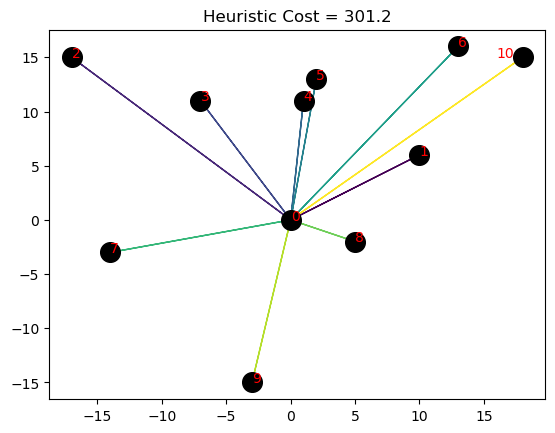
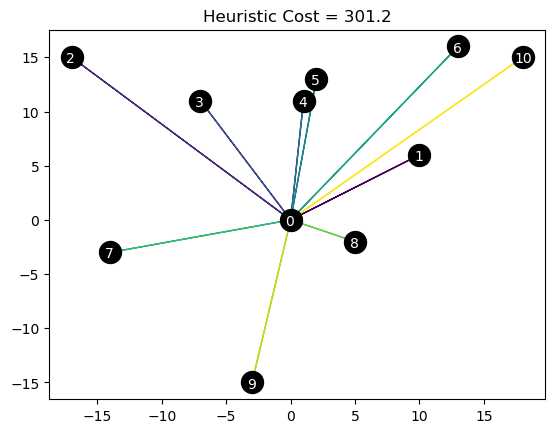
plotting fixed

diff --git a/src/solver/column_generation/method.py b/src/solver/column_generation/method.py
@@ -1,10 +1,11 @@
 from problem.cvrp import CVRP, Route
 from problem.solution import Solution
+from utils.logger import Log
 
 from . import initial_solution
 from .master_problem import MasterProblem
 from .pricing_problem import PricingProblem
-from utils.logger import Log
+
 
 class SolverColumnGeneration:
     """This class has the responsibility of solving the CVRP
@@ -27,7 +28,7 @@ class SolverColumnGeneration:
         self.instance: CVRP = instance
         self.initial_solution: Solution = None
         self.log = Log()
-        
+
         # heuristic solution
         # self.initial_solution = closest_client(instance)
         self.initial_solution = initial_solution.one_route_per_client(instance)
@@ -49,20 +50,24 @@ class SolverColumnGeneration:
         )
 
         last_min_reduced_cost_entered = None
-        
+
         for i in range(max_iterations):
-            print(f"\nMASTER ITERATION: {i+1} ---------------------------------------------\n")
-            
+            print(
+                f"\nMASTER ITERATION: {i+1} ---------------------------------------------\n"
+            )
+
             # Get the current state to show performance evolution
             self.master.build_model(is_linear=False)
             self.master.solve()
             obj_bound, obj_value = self.master.get_Obj_Values()
-            self.log.add(iteration=i,
-                         of_linear_lower_bound=obj_bound,
-                         of_integer_optimal_value=obj_value,
-                         number_routes=len(self.master.routes),
-                         min_reduced_cost=last_min_reduced_cost_entered)
-            
+            self.log.add(
+                iteration=i,
+                of_linear_lower_bound=obj_bound,
+                of_integer_optimal_value=obj_value,
+                number_routes=len(self.master.routes),
+                min_reduced_cost=last_min_reduced_cost_entered,
+            )
+
             # Get the duals
             self.master.build_model(is_linear=True)
             self.master.solve()
@@ -74,7 +79,7 @@ class SolverColumnGeneration:
             cost_path_solutions = self.pricing.solve()
             last_min_reduced_cost_entered = None
             if len(cost_path_solutions) > 0:
-                last_min_reduced_cost_entered = min([c for c,p in cost_path_solutions])
+                last_min_reduced_cost_entered = min([c for c, p in cost_path_solutions])
                 print("\nResults of Pricing Problem:")
                 for i, (reduced_cost, path) in enumerate(cost_path_solutions):
                     # add route to the master problem
@@ -83,7 +88,9 @@ class SolverColumnGeneration:
                     self.instance.is_valid_route(route)
                     cost = self.instance.get_route_cost(route)
                     self.master.add_route(route, cost)
-                    print(f"\t {i+1}: red-cost: {reduced_cost} path: {path}, cost: {cost}")
+                    print(
+                        f"\t {i+1}: red-cost: {reduced_cost} path: {path}, cost: {cost}"
+                    )
             else:
                 print(f"\nNo reduced-cost routes found! Ending Column Generation...")
                 break
@@ -94,16 +101,18 @@ class SolverColumnGeneration:
         self.master.build_model(is_linear=False)
         self.master.solve()
         obj_bound, obj_value = self.master.get_Obj_Values()
-        self.log.add(iteration=i+1,
-                    of_linear_lower_bound=obj_bound,
-                    of_integer_optimal_value=obj_value,
-                    number_routes=len(self.master.routes),
-                    min_reduced_cost=None)
+        self.log.add(
+            iteration=i + 1,
+            of_linear_lower_bound=obj_bound,
+            of_integer_optimal_value=obj_value,
+            number_routes=len(self.master.routes),
+            min_reduced_cost=None,
+        )
 
         # Now save the log
         self.log.save(folder=folder)
         self.log.plot(folder=folder)
-        
+
         final_solution: Solution = self.master.get_solution()
         instance.draw(
             routes=final_solution.routes,

diff --git a/src/utils/logger.py b/src/utils/logger.py
@@ -1,17 +1,22 @@
-from . import utils
-import matplotlib.pyplot as plt
 import os
 
+import matplotlib.pyplot as plt
+
+from . import utils
+
+
 class Log:
-    
     def __init__(self):
         self.data = dict()
-        
-    def add(self, iteration: int, 
-            of_linear_lower_bound: float, 
-            of_integer_optimal_value: float, 
-            number_routes: int, 
-            min_reduced_cost: float):
+
+    def add(
+        self,
+        iteration: int,
+        of_linear_lower_bound: float,
+        of_integer_optimal_value: float,
+        number_routes: int,
+        min_reduced_cost: float,
+    ):
         row = dict()
         row["iteration"] = iteration
         row["of_linear_lower_bound"] = of_linear_lower_bound
@@ -19,29 +24,38 @@ class Log:
         row["number_routes"] = number_routes
         row["min_reduced_cost"] = min_reduced_cost
         self.data[iteration] = row
-    
+
     def save(self, folder: str):
         utils.save_dictionary(self.data, "log", folder)
-    
+
     def plot(self, folder: str):
         self._plot_of(folder)
-        
-    def _plot_of(self, folder: str):        
+
+    def _plot_of(self, folder: str):
         iterations = self.data.keys()
-        of_linear_lower_bound = [self.data[k]["of_linear_lower_bound"] for k,v in self.data.items()]
-        of_integer_optimal_value = [self.data[k]["of_integer_optimal_value"] for k,v in self.data.items()]
-        plt.plot(iterations, of_linear_lower_bound, label="Linear Lower Bound", color="blue")
-        plt.plot(iterations, of_integer_optimal_value, label="MIP Value", color="red")
+        of_linear_lower_bound = [
+            self.data[k]["of_linear_lower_bound"] for k, v in self.data.items()
+        ]
+        of_integer_optimal_value = [
+            self.data[k]["of_integer_optimal_value"] for k, v in self.data.items()
+        ]
+        plt.plot(
+            iterations,
+            of_linear_lower_bound,
+            label="Linear Lower Bound",
+            color="blue",
+            marker="o",
+        )
+        plt.plot(
+            iterations,
+            of_integer_optimal_value,
+            label="MIP Value",
+            color="red",
+            marker="o",
+        )
         plt.title("Objective Function value per iteration")
         plt.legend()
         plt.xlabel("Iteration")
         plt.ylabel("Objective Function")
-        plt.savefig(
-            os.path.join(folder, "OF.png"),
-            bbox_inches="tight",
-            pad_inches=0.1)
-        plt.show()
-        
-        
-        
-        
+        plt.savefig(os.path.join(folder, "OF.png"), bbox_inches="tight", pad_inches=0.1)
+        plt.clf()

diff --git a/src/problem/cvrp.py b/src/problem/cvrp.py
@@ -1,12 +1,12 @@
 import os
 from typing import Dict, List
 
+import matplotlib.colors as mcolors
 import matplotlib.patches as patches
 import numpy as np
 from matplotlib import pyplot as plt
 from matplotlib.path import Path
 from scipy.spatial.distance import cdist
-import matplotlib.colors as mcolors
 
 from problem import instance
 from problem.route import Route
@@ -118,18 +118,20 @@ class CVRP:
         for i in range(self.n):
             x, y = self.coordinates[i, :]
             color = "black"
-            ax.scatter(x, y, s=200, color=color)  # circle
-            y_displacement = 0
-            x_displacement = 0 if i < 10 else -2
+            ax.scatter(x, y, s=250, color=color)  # circle
+            y_displacement = -0.5
+            x_displacement = -0.4 if i < 10 else -0.6
             plt.annotate(
-                str(i), (x + x_displacement, y + y_displacement), color="red", size=10
+                str(i), (x + x_displacement, y + y_displacement), color="white", size=10
             )  # id
 
         # Plot the routes
         colormap = plt.cm.viridis
         route_ids = routes.keys()
-        norm = mcolors.Normalize(vmin = min(route_ids), vmax = max(route_ids))
-        colors = {id: colormap(norm(id)) for id in route_ids} # Get a unique color for each route_id        
+        norm = mcolors.Normalize(vmin=min(route_ids), vmax=max(route_ids))
+        colors = {
+            id: colormap(norm(id)) for id in route_ids
+        }  # Get a unique color for each route_id
 
         for id, route in routes.items():
             if len(route.nodes) > 0:
@@ -144,5 +146,5 @@ class CVRP:
         # Save the fig
         filepath = os.path.join(folder_to_save, filename) + ".png"
         plt.savefig(filepath, bbox_inches="tight", pad_inches=0.1)
-        plt.show()
+        plt.clf()
         print(f"Saved {filepath}")

diff --git a/src/main.py b/src/main.py
@@ -18,12 +18,10 @@ if __name__ == "__main__":
     # )
 
     # Solve
-    instance = "01"
+    instance = "02"
     instance_folder = os.path.join(FOLDER_INSTANCES, instance)
     filepath = os.path.join(instance_folder, instance) + ".json"
     data = CVRP(filepath)
     solver = SolverColumnGeneration(
-        instance=data, 
-        folder=instance_folder, 
-        max_iterations=5
+        instance=data, folder=instance_folder, max_iterations=5
     )
